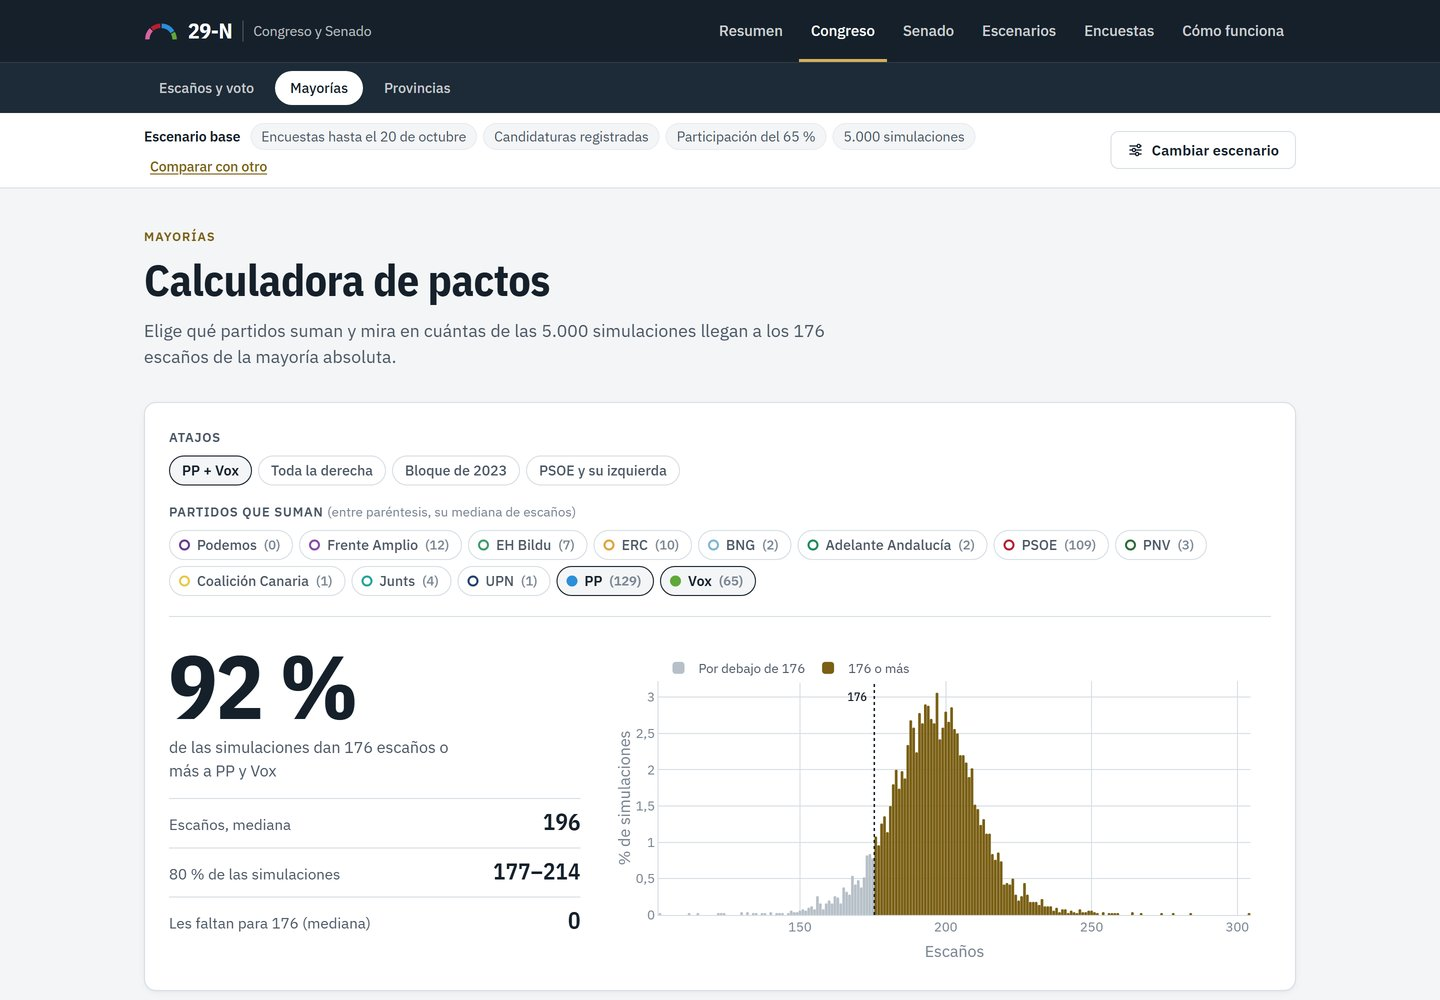
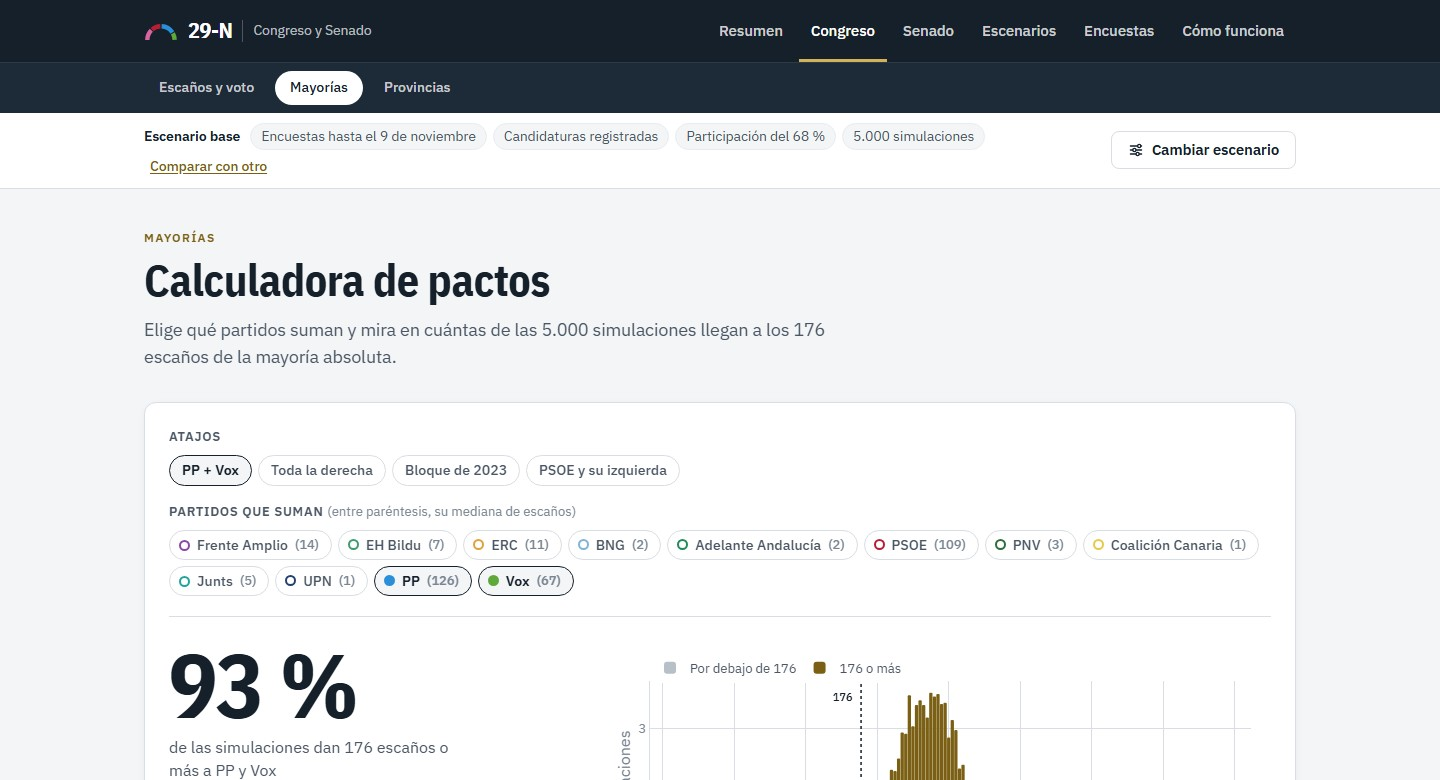
Versión 1.2.0: documento técnico y capturas al día
- Documento técnico: Senado de 209 (Formentera), tres quintos en 161, participación
  base del 68 % y cómo se calcula, cifras del acuerdo PP-Vox con encuestas hasta el
  8 de noviembre.
- Capturas de la web rehechas (escenario base del 9 de noviembre).
- Gráficos del acuerdo con los umbrales como parámetro y uno nuevo para el formato
  de un solo candidato de Vox.
- CITATION.cff, pyproject y .zenodo.json en la versión 1.2.0.

diff --git a/docs/pdf/graficos.py b/docs/pdf/graficos.py
@@ -238,7 +238,7 @@ def flujo():
           caja(500, 120, 196, "Tu escenario", "participación, voto útil…", "caja-alt"),
           caja(500, 200, 196, "04  Simulación", "10.000 elecciones con error", "caja-clave"),
           caja(246, 294, 210, "Congreso: 350 escaños", "D’Hondt y 3 % por provincia"),
-          caja(500, 294, 196, "Senado: 208 + 58", "voto limitado y designados")]
+          caja(500, 294, 196, "Senado: 209 + 58", "voto limitado y designados")]
     return svg(710, 330, "".join(c), "Flujo del modelo")
 
 
@@ -359,16 +359,16 @@ def portada_flujo():
 
 
 # ---------------------------------------------------------------- artículo del acuerdo PP-Vox (Senado)
-def pacto_barras(filas: list[tuple[str, float, float]]) -> str:
+def pacto_barras(filas: list[tuple[str, float, float]], quintos: int = 161, mayoria: int = 134) -> str:
     """filas: (escenario, P tres quintos, P mayoría absoluta) en %. Barras agrupadas."""
     x0, w = 230, 400
 
     def X(v):
         return x0 + v / 100 * w
 
-    c = [f'<rect x="{x0}" y="4" width="12" height="12" rx="2" class="f1"/>', t(x0 + 18, 14, "tres quintos (160)", "q"),
+    c = [f'<rect x="{x0}" y="4" width="12" height="12" rx="2" class="f1"/>', t(x0 + 18, 14, f"tres quintos ({quintos})", "q"),
          f'<rect x="{x0 + 170}" y="4" width="12" height="12" rx="2" class="f2"/>',
-         t(x0 + 188, 14, "mayoría absoluta (134)", "q")]
+         t(x0 + 188, 14, f"mayoría absoluta ({mayoria})", "q")]
     y0, alto, hueco = 36, 26, 22
     yfin = y0 + len(filas) * (2 * alto + hueco) - hueco
     for v in (0, 25, 50, 75, 100):
@@ -384,7 +384,7 @@ def pacto_barras(filas: list[tuple[str, float, float]]) -> str:
     return svg(680, yfin + 26, "".join(c), "Tres quintos y mayoría absoluta del bloque de derechas según el pacto")
 
 
-def pacto_participacion(part: list[int], quintos: list[float], mayoria: list[float]) -> str:
+def pacto_participacion(part: list[int], quintos: list[float], mayoria: list[float], base: float = 68) -> str:
     """Probabilidad (en %) de los tres quintos y de la mayoría absoluta con el acuerdo, según la participación."""
     def X(v):
         return 70 + (v - part[0]) / (part[-1] - part[0]) * 450
@@ -397,7 +397,7 @@ def pacto_participacion(part: list[int], quintos: list[float], mayoria: list[flo
     for p in part:
         c.append(t(X(p), 270, f"{p} %", "q", "middle"))
     c.append(t(520, 288, "participación sobre el censo", "q", "end"))
-    c += [ln(X(65), 22, X(65), 250, "ref"), t(X(65) + 6, 18, "lo que suponen las encuestas", "q")]
+    c += [ln(X(base), 22, X(base), 250, "ref"), t(X(base) + 6, 18, "lo que suponen las encuestas", "q")]
     if part[0] <= 71.8 <= part[-1]:
         c += [ln(X(71.8), 30, X(71.8), 250, "ref"), t(X(71.8) + 6, 40, "abril de 2019: 71,8 %", "q")]
     c.append(poli([(X(p), Y(v)) for p, v in zip(part, mayoria)], "s2"))
@@ -465,3 +465,24 @@ def pacto_ruta(pasos: list[tuple[str, float, str]], hitos: str = "") -> str:
     if hitos:
         c.append(t(20, yfin + 52, hitos, "q"))
     return svg(680, yfin + (62 if hitos else 40), "".join(c), "Ruta de mejoras del acuerdo PP-Vox")
+
+
+def pacto_un_candidato(filas: list[tuple[str, float, float, str]], total: int = 14) -> str:
+    """Provincias ganadas (3 senadores) de las `total` con Vox en un solo candidato, según el formato.
+    filas: (formato, provincias ganadas de media, senadores de PP + Vox de media, clase de la barra)."""
+    x0, w = 250, 380
+
+    def X(v):
+        return x0 + v / total * w
+    y0, paso = 30, 46
+    yfin = y0 + paso * (len(filas) - 1)
+    c = []
+    for v in range(0, total + 1, 2):
+        c += [ln(X(v), y0 - 18, X(v), yfin + 18, "grid"), t(X(v), yfin + 36, str(v), "q", "middle")]
+    c.append(t(x0 + w, yfin + 56, f"provincias ganadas (3 senadores), de {total}", "q", "end"))
+    for i, (texto, v, sen, cls) in enumerate(filas):
+        y = y0 + i * paso
+        c.append(t(x0 - 12, y + 5, texto, "kb" if cls == "f1" else "k", "end"))
+        c.append(f'<rect x="{x0}" y="{y - 12}" width="{max(X(v) - x0, 2):.1f}" height="24" rx="2" class="{cls}"/>')
+        c.append(t(X(v) + 8, y + 5, f"{str(round(v, 1)).replace('.', ',')}  ·  {round(sen)} senadores", "kb"))
+    return svg(720, yfin + 64, "".join(c), "Provincias que gana la derecha según el formato del acuerdo")

diff --git a/docs/pdf/construir.py b/docs/pdf/construir.py
@@ -14,6 +14,7 @@ AQUI = Path(__file__).parent
 EDGE = r"C:\Program Files (x86)\Microsoft\Edge\Application\msedge.exe"
 AUTOR = "Alberto"
 FECHA = "20 de octubre de 2026"
+FECHA_TECNICO = "11 de noviembre de 2026"
 
 
 def md(texto):
@@ -171,7 +172,7 @@ def tecnico(paginas=None):
     texto = re.sub(r"\[«Una mayoría que depende de quién vote»\]\([^)]*\)", "«Una mayoría que depende de quién vote»", texto)
     html = comun(md(texto))
     figs = [
-        figura("De las encuestas a 350 diputados y 208 senadores en cuatro pasos",
+        figura("De las encuestas a 350 diputados y 209 senadores en cuatro pasos",
                "Qué entra, qué se calcula y qué sale", g.flujo(), "Esquema del modelo"),
         figura("Cuantos más días faltan para votar, más grande es el error que se simula",
                "Error típico del voto de cada bloque, en puntos, medido en las generales de 2015 a 2023",
@@ -191,7 +192,7 @@ def tecnico(paginas=None):
     portada = f"""<section class="portada">
 <div class="p-franja"></div>
 <div class="p-cont">
-  <p class="p-kicker">DOCUMENTO TÉCNICO · v1.1</p>
+  <p class="p-kicker">DOCUMENTO TÉCNICO · v1.2</p>
   <h1>Modelo 29-N</h1>
   <p class="p-sub">Cómo funciona la aplicación y por qué está hecha así: doce decisiones, cómo se tomaron y cómo se
   comprobaron</p>
@@ -203,7 +204,7 @@ def tecnico(paginas=None):
     <div><span class="d-num">199/208</span><span class="d-lbl">senadores bien asignados con el voto real de 2023</span></div>
   </div>
   <p class="p-web">Pruébala: <b>{WEB}</b> · Código: <b>{GITHUB}</b><br>DOI: <b>10.5281/zenodo.23530778</b></p>
-  <p class="p-firma"><b>{AUTOR}</b> · {FECHA}<br>Acompaña al documento de análisis «Una mayoría que depende de quién vote»</p>
+  <p class="p-firma"><b>{AUTOR}</b> · {FECHA_TECNICO}<br>Acompaña al documento de análisis «Una mayoría que depende de quién vote»</p>
 </div></section>"""
     cuerpo = portada + indice(lista, paginas or {}) + f'<main>{html}</main>'
     return pagina("Modelo 29-N · documento técnico", ESTILO_TECNICO, FUENTES_TECNICO, cuerpo), lista
@@ -246,14 +247,15 @@ PRUEBALO_OPINION = (
 
 CAPTURAS_TECNICO = (
     "<p>Antes de entrar en el detalle, así se ve. Las capturas son de la aplicación con el escenario "
-    "base (encuestas hasta el 20 de octubre).</p>"
+    "base (encuestas hasta el 9 de noviembre).</p>"
     + captura("resumen", "/", "Resumen: la respuesta en una frase",
               "Titular, hemiciclo y probabilidades. El botón «Cambiar escenario» recalcula todo el sitio.")
     + captura("provincias", "/provincias", "Congreso: las 52 circunscripciones",
               "Mapa del partido más votado, del voto de cada partido o de los cambios desde 2023, con el escaño en juego "
               "en cada provincia.")
-    + captura("senado", "/senado", "Senado: 208 electos y 266 en el pleno",
-              "Las tres hipótesis sobre Vox lado a lado, con la probabilidad de cada mayoría.")
+    + captura("senado", "/senado", "Senado: 209 electos y 267 en el pleno",
+              "El acuerdo PP-Vox frente a no pactar y a que Vox se retire casi en todas, con la probabilidad de los tres "
+              "quintos y de la mayoría absoluta.")
     + captura("simulador", "/simulador", "¿Y si…?: el simulador sin Monte Carlo",
               "Mueve el voto de cualquier partido y el reparto de escaños se recalcula al instante."))
 

diff --git a/docs/pdf/tecnico.md b/docs/pdf/tecnico.md
@@ -20,7 +20,7 @@ Tiene seis secciones, y todas comparten el mismo escenario: lo que cambias en el
 | --- | --- |
 | Resumen | Titular, hemiciclo con el reparto medio, probabilidades principales y ficha de cada partido |
 | Congreso | Voto y escaños con sus rangos y descarga de las simulaciones; calculadora de cualquier suma de partidos; mapa y tabla de las 52 provincias con el escaño en juego |
-| Senado | 208 electos y pleno de 266, con el acuerdo PP-Vox del 26 de octubre y sin él, tres quintos y mayoría absoluta del bloque de derechas, mapa con el detalle de cada isla y designados por comunidad |
+| Senado | 209 electos y pleno de 267, con el acuerdo PP-Vox del 26 de octubre y sin él, tres quintos y mayoría absoluta del bloque de derechas, mapa con el detalle de cada isla y designados por comunidad |
 | Escenarios | Barrido de participación; simulador «¿Y si…?» que fija el voto de cualquier partido; dos escenarios lado a lado |
 | Encuestas | Media actual, serie de cada partido, sesgo de cada encuestadora y evolución semana a semana |
 | Cómo funciona | Pasos, supuestos con su justificación y fuentes, validación y límites |
@@ -33,7 +33,7 @@ La noche del 29-N se añade una séptima sección que va proyectando los escaño
 | --- | --- | --- |
 | Encuestas hasta | Cortes semanales desde junio | Usa sólo las encuestas terminadas antes de esa fecha: muestra qué decía el modelo entonces |
 | Candidaturas | Registradas / lista única | Las coaliciones registradas el 16 de octubre, o la hipótesis de Frente Amplio y Podemos juntos en toda España |
-| Participación | 60 a 76 % | Suma o resta votantes respecto al 65 % que suponen las encuestas |
+| Participación | 60 a 76 % | Suma o resta votantes respecto al 68 % que suponen las encuestas |
 | Reparto de votantes adicionales | Histórico, simétrico, muy asimétrico | De cada 100 votos extra: 57/18/25 (izquierda/derecha/resto), 49/45/6 o 80/5/15 |
 | Movilización por bloque | −20 a +20 %, en España o una comunidad | Sube o baja el voto de la izquierda, la derecha o los nacionalistas y regionalistas |
 | Voto útil | 0 a 50 %, en todas las provincias o sólo donde el partido no saca escaño | Podemos → Frente Amplio, Frente Amplio → PSOE, Vox → PP, SALF → Vox |
@@ -116,7 +116,7 @@ Las candidaturas que no tienen una base comparable en 2023 necesitan otra refere
 
 ### 8. La participación
 
-Las encuestas que publican su estimación de participación suponen de media un 65 %, y ese es el punto de partida. El usuario puede moverla entre el 60 % y el 76 %, y entonces hay que decidir a quién votan los que se suman o se restan. Para eso hice una regresión de los votos de cada bloque sobre el total de votantes en las cinco generales de 2015 a 2023: de cada 100 votantes adicionales, 57 votaron izquierda, 18 derecha y 25 al resto.
+Las encuestas que publican su estimación de participación suponen hoy un 68 %, y ese es el punto de partida: con esa participación el modelo no añade ni quita votantes, porque las encuestas ya la llevan dentro. La cifra sale de la última encuesta de cada casa que la publica (mediana del 68,7 %), contando cada casa una vez, igual que en la media de encuestas; si se promedian todas, las casas que publican cada dos semanas pesan de más (con ese cálculo salía un 65 %). El usuario puede moverla entre el 60 % y el 76 %, y entonces hay que decidir a quién votan los que se suman o se restan. Para eso hice una regresión de los votos de cada bloque sobre el total de votantes en las cinco generales de 2015 a 2023: de cada 100 votantes adicionales, 57 votaron izquierda, 18 derecha y 25 al resto.
 
 No me fío del todo de esa regla. Cinco elecciones son pocas, para la derecha la relación es débil (r = 0,45), y la literatura no da una regla fija: en España la relación entre participación y voto al PSOE responde a varios mecanismos que no siempre empujan hacia el mismo lado ([Lago y Montero, 2009](https://reis.cis.es/index.php/reis/article/download/791/1003/1312)), y en otros países más participación sobre todo hace el resultado menos predecible ([Hansford y Gomez, 2010](https://www.cambridge.org/core/journals/american-political-science-review/article/estimating-the-electoral-effects-of-voter-turnout/8A880C28E79BE770A5CA1A9BB6CF933C)). Por eso no impongo una regla, sino que ofrezco tres: la histórica; una simétrica, que reproduce cómo cayó la participación entre abril y noviembre de 2019 (49 a la izquierda y 45 a la derecha); y una muy asimétrica (80 y 5), que no sale de ningún dato y sirve como prueba de estrés.
 
@@ -136,7 +136,7 @@ Los nueve fallos fueron lo más útil de la prueba, porque enseñan dónde está
 
 Hay dos islas que trato aparte desde el principio: La Gomera y El Hierro, donde ganan partidos que no se presentan al Congreso (ASG y AHI). Como no hay encuesta que los mida, les dejo su voto al Senado de 2023, y por eso esos dos escaños salen bien en la validación de forma automática.
 
-El resto de decisiones del Senado: las islas se calculan desde su provincia con el patrón que tuvo cada isla en el Congreso de 2023, municipio a municipio; la coalición Senado de Progreso suma íntegros los votos de PSOE y Frente Amplio en las 46 provincias del acuerdo más La Gomera (con la misma reserva que las listas conjuntas); y los 58 senadores que designan los parlamentos autonómicos se suman tal y como están hoy, según la web del Senado. 
+El resto de decisiones del Senado: las islas se calculan desde su provincia con el patrón que tuvo cada isla en el Congreso de 2023, municipio a municipio; la coalición Senado de Progreso suma íntegros los votos de PSOE y Frente Amplio en las 46 provincias del acuerdo más La Gomera (con la misma reserva que las listas conjuntas); y los 58 senadores que designan los parlamentos autonómicos se suman tal y como están hoy, según la web del Senado. Desde la reforma del artículo 69.3 de la Constitución (BOE del 20 de mayo de 2026), Formentera elige su propio senador separado de Eivissa, así que el 29-N se eligen 209 y el pleno tiene 267: los tres quintos son 161. Como Formentera es un solo municipio, su voto al Congreso de 2023 sale directamente de los resultados municipales; la validación con 2023 se hace con las circunscripciones de entonces.
 
 El 26 de octubre PP y Vox anunciaron un acuerdo para el Senado, y tuve que meterlo en el modelo con tres piezas. En seis provincias Vox no se presenta y el PP lleva en su lista a un independiente propuesto por Vox; supongo que el 80 % de los votantes de Vox vota esa lista (no hay precedente directo, así que lo anclo en el 83 % que conservó Unidos Podemos en 2016). Supongo que quien coge esa papeleta marca la lista entera, porque nada en ella le indica cuál de los tres nombres es el de Vox; por eso el independiente sólo sale si el PP gana sus tres senadores. En tres provincias el PP no se presenta y el 60 % de su voto va a Vox. Y en catorce Vox lleva un solo candidato y pide a sus votantes que marquen también a dos del PP. Ahí el reparto ya no se puede hacer por listas: lo hago nombre a nombre. Los dos primeros del PP suman los votos de los votantes de Vox que conocen la consigna (supongo la mitad), pero el tercero sólo tiene los del PP, y puede perder el escaño frente al segundo de otra lista. Comprobé que el reparto nombre a nombre da exactamente lo mismo que el de listas cuando no hay acuerdo, para no meter diferencias por la puerta de atrás.
 
@@ -144,7 +144,7 @@ El 26 de octubre PP y Vox anunciaron un acuerdo para el Senado, y tuve que meter
 
 Con el acuerdo ya anunciado, la pregunta útil es cuánto se aleja del mejor pacto posible. En cada provincia hay cuatro opciones: ir por separado, que Vox no se presente, que no se presente el PP o que Vox lleve un solo candidato. Probar todas las combinaciones es imposible: con 52 provincias y cuatro opciones salen más números de los que se pueden escribir. Me fijé en algo que lo simplifica mucho: lo que se haga en una provincia sólo cambia los senadores de esa provincia. Así que simulo cada opción una vez en todas las provincias, con las mismas 5.000 elecciones simuladas, y cualquier combinación se calcula sumando. Después elijo provincia a provincia la opción que más sube la probabilidad de los tres quintos. No garantiza el óptimo exacto, pero como las provincias son independientes se queda muy cerca.
 
-El resultado, con la participación que suponen las encuestas, es que el acuerdo lleva la probabilidad de los tres quintos del bloque de derechas del 12 % al 31 %, y el mejor pacto posible la llevaría a cerca del 87 %. Casi toda la diferencia viene de dos cosas: el formato de «un solo candidato de Vox» rinde más o menos la mitad que la retirada, y el acuerdo deja fuera provincias como Barcelona, Córdoba, Teruel o León.
+El resultado, con las encuestas hasta el 8 de noviembre y la participación que suponen, es que el acuerdo lleva la probabilidad de los tres quintos del bloque de derechas del 9 % al 27 %, y el mejor pacto posible la llevaría al 86 %. Casi toda la diferencia viene del formato de «un solo candidato de Vox»: en esas catorce provincias la derecha gana con sus tres senadores unas cinco, prácticamente las mismas que yendo por separado, mientras que con la retirada de Vox ganaría casi doce. Sólo con ese cambio los tres quintos pasarían al 47 %. El resto lo explican provincias que se quedaron fuera del acuerdo, como Barcelona, Córdoba, Teruel o León.
 
 ### 12. Cuántas simulaciones
 
@@ -179,11 +179,11 @@ Todo lo que usa la aplicación son datos públicos, y las encuestas se actualiza
 
 | Dato | Fuente | Actualización |
 | --- | --- | --- |
-| Encuestas nacionales | Todas las publicadas, recogidas en Wikipedia | Diaria; la última incorporada es del 17 de octubre de 2026 |
+| Encuestas nacionales | Todas las publicadas, recogidas en Wikipedia | Diaria; la última incorporada es del 8 de noviembre de 2026 |
 | Encuestas autonómicas | CEO, Sondaxe, GAD3 y otras | Con cada encuesta nueva |
 | Resultados 2015–2023 y Senado 2023 | Ministerio del Interior (infoelectoral) | Fijos, sellados para detectar cualquier cambio |
-| Senadores designados | Web del Senado | A 17 de octubre de 2026 |
-| Candidaturas | Coaliciones registradas ante la Junta Electoral Central | 16 de octubre; las listas se cierran el 26 |
+| Senadores designados | Web del Senado | Comprobados el 11 de noviembre de 2026 |
+| Candidaturas | Coaliciones registradas ante la Junta Electoral Central | 16 de octubre; listas cerradas el 26 y publicadas en el BOE |
 
 Cuando sale una encuesta nueva, la aplicación la incorpora, comprueba que el modelo sigue pasando todas sus pruebas, recalcula los escenarios habituales y publica la versión nueva. La noche electoral se puede cargar el escrutinio para ir proyectando los escaños a medida que avanza el recuento.
 

diff --git a/CHANGELOG.md b/CHANGELOG.md
@@ -14,7 +14,7 @@ Plantilla de entrada:
 ### Interfaz y herramientas
 ```
 
-## [Sin publicar]
+## [1.2.0] – 2026-11-11
 
 ### Modelo
 - **Formentera elige su propio senador** (reforma del art. 69.3 de la Constitución, BOE de 20/05/2026, aplicable por
